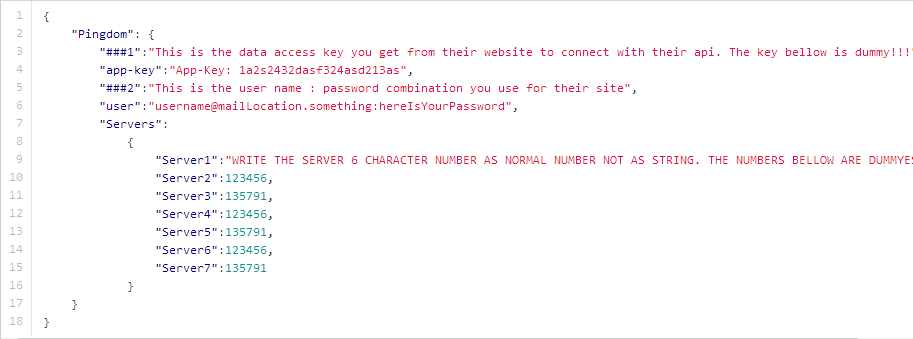
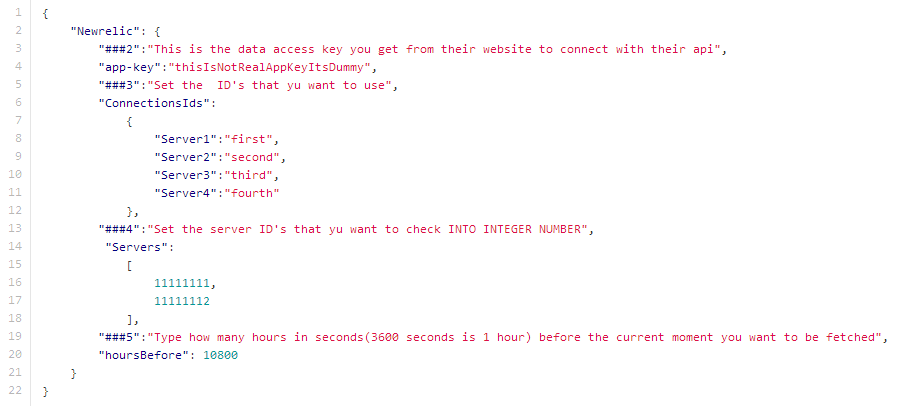
Fix the changes

diff --git a/README.md b/README.md
@@ -1,6 +1,6 @@
 #Description
 
-The easy configurable php data fetcher that can get all the info for your monitored servers directly from Pingdom API
+The easy configurable php data fetcher that can get all the info for your monitored servers directly from NewRelic API
 
 ##When to use
 
@@ -36,7 +36,7 @@ Where each value stands for:
 5. Day of the week(0-7 [7 or 0 == sunday])
 6. /path/to/command - Script or command name to schedule
 
-5. Set the main php script contained in Plugin/get_pingdom_data.php to be run at least 1 time on a daily basis.
+5. Set the main php script contained in Plugin/get_newrelic_data.php to be run at least 1 time on a daily basis.
 
 6. You can actually manually set eveything the script needs to run. Now you just need to put your info into the settings.json that looks like this:
 
@@ -44,9 +44,9 @@ Where each value stands for:
 
 7. There is inline documentation but ill still explain what to do.
 
-1.1. The row under comment 1 is app-key. You must get it from your Pingdom acc and put it here.
+1.1. The row under comment 1 is app-key. You must get it from your Newrelic acc and put it here.
 
-1.2. The row under comment 2 is for the user. You must first type your username, then the symbol ":" and finally your password next to it.
+1.2. The row under comment 2 is for the ids. You must fill them with the id words they use for your things(database and etc.).
 
 1.3.  In the servers tab you only type the last numbers here and leave just the amount of servers you need (add or remove rows in the json)
 
@@ -56,11 +56,13 @@ Where each value stands for:
 
 #### Example Usage
 
-The result will be into the Plugin/storagePingdom.json that looks like this.
+The result will be into the Plugin/storageNewRelic.json that looks like this.
 
 [![Cron home](Screenshots/result.png)](Screenshots/result.png)
 
 There is a summary for each server. "days" holds the 10 days that pingdom returns as output. "Uptime" is the total uptime for the day displayed in seconds (unix time). "avgresponse" relates to the average required calltime and startime which displays when the day gets started.
+
+##### The new relic error script is just the errors call on different file for the people who jsut want to see when there are errors and how often!
 
 ## Requirements
 
